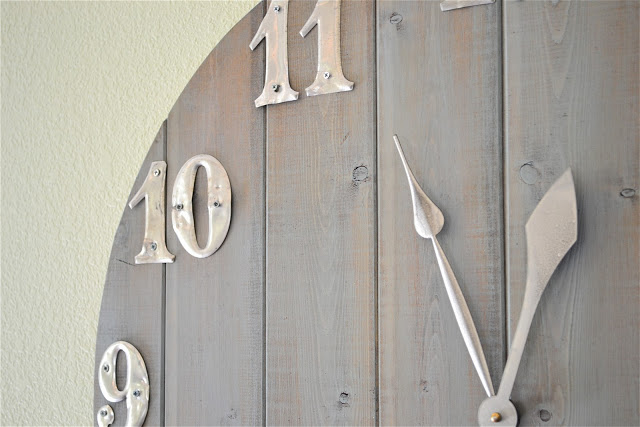
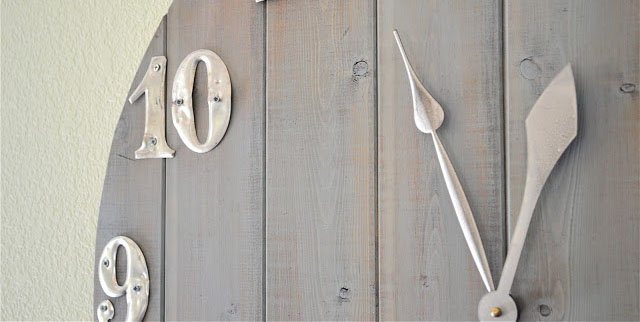
updated main html and css

diff --git a/TICTOC-Website/Main.html b/TICTOC-Website/Main.html
@@ -20,196 +20,105 @@
 
 	<body>
 
-	<!--Logo Banner above Navigation Menu-->
-	div>
-      <div class = "header">
-        <div class = "header-content">
-            
-            <a class="header-item" href="#">Sign Up/Log In</a>
-            <a class="header-item" href="#">Cart (0)</a>
-            <label class="header-item">Search <input/></label>
-        </div>  
-      </div>
-  </div>
+		<!--Logo Banner above Navigation Menu-->
+		<div>
+		  <div class = "header">
+		    <div class = "header-content">
+		        
+		        <a class="header-item" href="#">Sign Up/Log In</a>
+		        <a class="header-item" href="#">Cart (0)</a>
+		        <label class="header-item">Search <input/></label>
+		    </div>  
+		  </div>
+		</div>
 
 
-    
-  <div class="site-logo">
-    
-      <img alt="header" src="img/siteLogo.png" width="300" height="201">  
 
-  </div>
+		<div class="site-logo">
 
-    <!--nav bar-->
-  <div class="nav">
-    <ul>
-      <li class="home"><a href="Main.html">Home</a></li>
-      <li class="updates"><a href="Events.html">Events</a></li>
-      <li class="products"><a href="Products.html">Shop</a></li>
-      <li class="about"><a href="About.html">About</a></li>
-      <li class="contact"><a href="Contact.html">Contact</a></li>
-    </ul>
-  </div>
+		  <img alt="header" src="img/siteLogo.png" width="300" height="201">  
+
+		</div>
+
+		<!--nav bar-->
+		<div class="nav">
+		<ul>
+		  <li class="home"><a href="Main.html">Home</a></li>
+		  <li class="updates"><a href="Events.html">Events</a></li>
+		  <li class="products"><a href="Products.html">Shop</a></li>
+		  <li class="about"><a href="About.html">About</a></li>
+		  <li class="contact"><a href="Contact.html">Contact</a></li>
+		</ul>
+		</div>
 
 	
 
 	<!--News/Events container-->
 
-	<div class="news-events">
+		<div class="news-events">
 
-	<h2>Welcome to the world of authentic clocks</h2>
-		
-		<div class= "img-general">
+		<div>
 
-			<img alt="home" src="img/about-us-banner-3.jpg" width="800" height="600">	
+			<img alt="home" src="img/about-us-banner-3.jpg" width="1400" height="800">	
 
 		</div>
 
-		<div class="paragraph-general">
+		<h1 class="h-thin">Welcome to the world of authentic clocks</h1>
 
-		<p>TicToc is the only design studio in Canada that designs and builds memorable clocks made to enrich, inspire and of course accurately keep the time. We take pride in delicately crafting each and every one of our clocks and would like to share our love of clock with the world. </p>
-		
+		<div class="paragraph-wide">
 
-	</div>
+			<p>TicToc is the only design studio in Canada that designs and builds memorable clocks made to enrich, inspire and of course accurately keep the time. We take pride in delicately crafting each and every one of our clocks and would like to share our love of clock with the world. </p>
 
-	</div>	
 
-	<div class="grid">
+		</div>
+
+		</div>	
+
+		<div class="grid">
 
 		<h2>Latest News</h2>
 
-         <div class="grid-col-2of10">
-            <article>
+		 <div class="grid-col-2of10">
+		    <article>
 
-              <figure>
-                <a href="Events-Detail.html"><img alt="latest-designs" src="img/latest-designs.jpg" width="400" height="400"></a>
-              </figure>
+		      <figure>
+		        <a href="Events-Detail.html"><img alt="latest-designs" src="img/latest-designs.jpg" width="400" height="400"></a>
+		      </figure>
 
-              <p>Upcoming Designs</p>
-            
-            </article>
-         </div>
+		      <p>Upcoming Designs</p>
+		    
+		    </article>
+		 </div>
 
-          <div class="grid-col-2of10">
-            <article>
+		  <div class="grid-col-2of10">
+		    <article>
 
-              <figure>
-                <a href="Events-Detail.html"><img alt="the workshop" src="img/blog-section.jpg" width="400" height="400"></a>
-              </figure>
+		      <figure>
+		        <a href="Events-Detail.html"><img alt="the workshop" src="img/blog-section.jpg" width="400" height="400"></a>
+		      </figure>
 
-              <p>How We Design</p>
-            
-            </article>
-         </div>
+		      <p>How We Design</p>
+		    
+		    </article>
+		 </div>
 
-            <div class="grid-col-2of10">
-            <article>
+		    <div class="grid-col-2of10">
+		    <article>
 
-              <figure>
-                <a href="Events-Detail.html"><img alt="contests" src="img/history-news.jpg" width="400" height="400"></a>
-              </figure>
+		      <figure>
+		        <a href="Events-Detail.html"><img alt="contests" src="img/history-news.jpg" width="400" height="400"></a>
+		      </figure>
 
-              <p>A Look Back in Time: History News</p>
-            
-            </article>
-         </div>
-
-
-     </div>
-
-	
-
-
-
-	<!--all buttons-->
-
-	<div class="btn">
-		
-		<div id="btn-nav">
+		      <p>A Look Back in Time: History News</p>
+		    
+		    </article>
+		 </div>
 
 
 		</div>
-		
-		<div id="btn-link">
-
-		
-		</div>
-
-		<div id="btn-submit">
-		
-		</div>
-
-		<div id="btn-reset">
-
-	</div>
-
-	<!--lists: unordered, ordered, bullets etc-->
-
-	<div class="lists">
-		
-
-
-	</div>
-
-	<!--Status is alerts & messages shown to users-->
-
-	<div class="status">
-		
-
-	</div>
-
-	<!--Product Listing displays product images-->
-
-	<div class="product-listing">
-		
-
-	</div>
-
-	<!--search bar or menu-->
-
-	<div class="search">
-		
-
-	</div>
-
-	<!--headings 1-6-->
-
-	<div class="headings">
-		
-
-	</div>
-
-	<!--paragraph-->
-
-	<div class="paragraph">
-		
-
-	</div>
-
-	<!--all forms such as login, signup, order etc-->
-
-	<div class="forms">
-		
-
-	</div>
-
-
-	<!--Input Areas such as text field, password etc-->
-
-	<div class="input-areas">
-		
-
-	</div>
-
-	<!--in-line links-->
-
-	<div class="links">
-		
-
-	</div>
 
 
 
-</body>
+	</body>
 
 </html>

diff --git a/TICTOC-Website/css/style.css b/TICTOC-Website/css/style.css
@@ -9,12 +9,24 @@ body {
 	background: white;
 }
 
+.h-thin{
+	font-weight: 300;
+}
+
 .paragraph-general{
 	margin-left: auto;
 	margin-right: auto;
 	width:50%;
 
 	padding: 1em;
+
+}
+
+.paragraph-wide{
+
+	text-align: left;
+	padding:0;
+	margin:0;
 
 }
 
@@ -54,12 +66,8 @@ body {
 }
 
 
-
-
 .header{
-	width:100%;
-	
-	
+	width:100%;	
 	text-align: right;
 
 }
